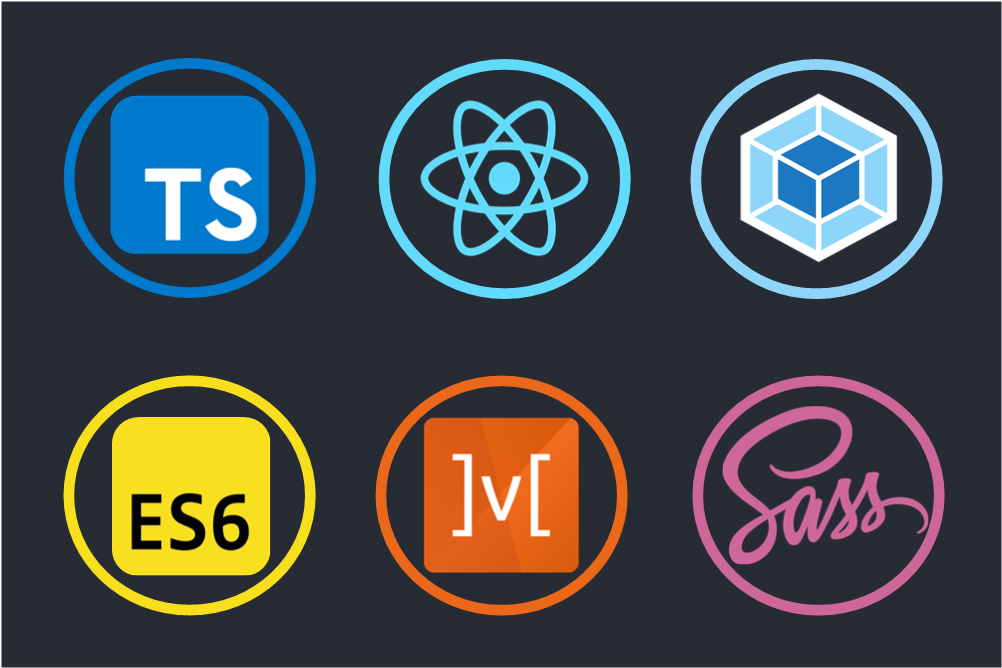
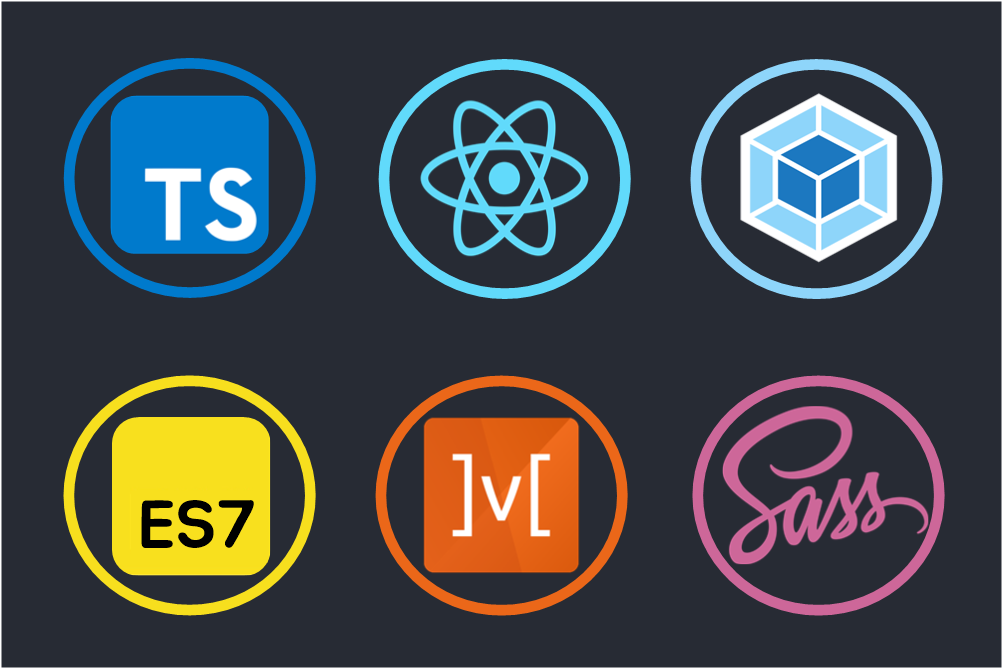
리액트 시작을 위한 ES7

Changed region(s): [[0.1238, 0.7186, 0.2784, 0.8383]]

diff --git a/_posts/2020-02-23-인스타그램-클론으로-배우는-프론트엔드-로드맵.md b/_posts/2020-02-23-인스타그램-클론으로-배우는-프론트엔드-로드맵.md
@@ -2,12 +2,12 @@
 layout: post
 title: "인스타그램 클론으로 배우는 프론트엔드 로드맵"
 author: cupjoo
-categories: [ES6, Typescript, React.js, MobX, Sass]
+categories: [React.js]
 image: assets/images/2020-02-23/1.png
 hidden: true
 ---
 
-프론트엔드 기술이 너무나 빠르게 변하면서, 더 이상 백엔드 개발자라고 해서 jQuery에 안주할 수는 없다. 그런데 막상 시작해보려니 ES6 부터 시작해서 React.js, Typescript, Sass 등 배워야 할 건 너무 많고, 그렇다고 매번 책을 사서 하나하나 파고들면서 공부하기엔 너무 시간이 오래걸리고.. 이런 상황에 빠지지 않기 위해 각 기술의 핵심만 빠르게 짚고 넘어가며, 최종적으로 인스타그램 클론을 통해 프론트엔드의 최신 기술들을 모두 다뤄보려 한다.
+프론트엔드 기술이 너무나 빠르게 변하면서, 더 이상 백엔드 개발자라고 해서 jQuery에 안주할 수는 없다. 그런데 막상 시작해보려니 ES7 부터 시작해서 React.js, Typescript, Sass 등 배워야 할 건 너무 많고, 그렇다고 매번 책을 사서 하나하나 파고들면서 공부하기엔 너무 시간이 오래걸리고.. 이런 상황에 빠지지 않기 위해 각 기술의 핵심만 빠르게 짚고 넘어가며, 최종적으로 인스타그램 클론을 통해 프론트엔드의 최신 기술들을 모두 다뤄보려 한다.
 
 선수 지식
 
@@ -22,7 +22,7 @@ hidden: true
 
 ### 1. 자바스크립트 기초 다지기
 
-- [리액트 시작을 위한 ES6](https://cupjoo.github.io/리액트-시작을-위한-ES6)
+- [리액트 시작을 위한 ES7](https://cupjoo.github.io/리액트-시작을-위한-ES7)
 
 ### 2. 일단 발부터 들여놓자. React.js!
 

diff --git a/_posts/2020-03-06-리액트-시작을-위한-ES7.md b/_posts/2020-03-06-리액트-시작을-위한-ES7.md
@@ -1,10 +1,9 @@
 ---
 layout: post
-title: "리액트 시작을 위한 ES6"
+title: "리액트 시작을 위한 ES7"
 author: cupjoo
-categories: [ES6]
-image: assets/images/2020-02-24/1.png
-hidden: true
+categories: [Javascript]
+image: assets/images/2020-03-06/1.png
 ---
 
 [인스타그램 클론으로 배우는 프론트엔드 로드맵](https://cupjoo.github.io/인스타그램-클론으로-배우는-프론트엔드-로드맵)
